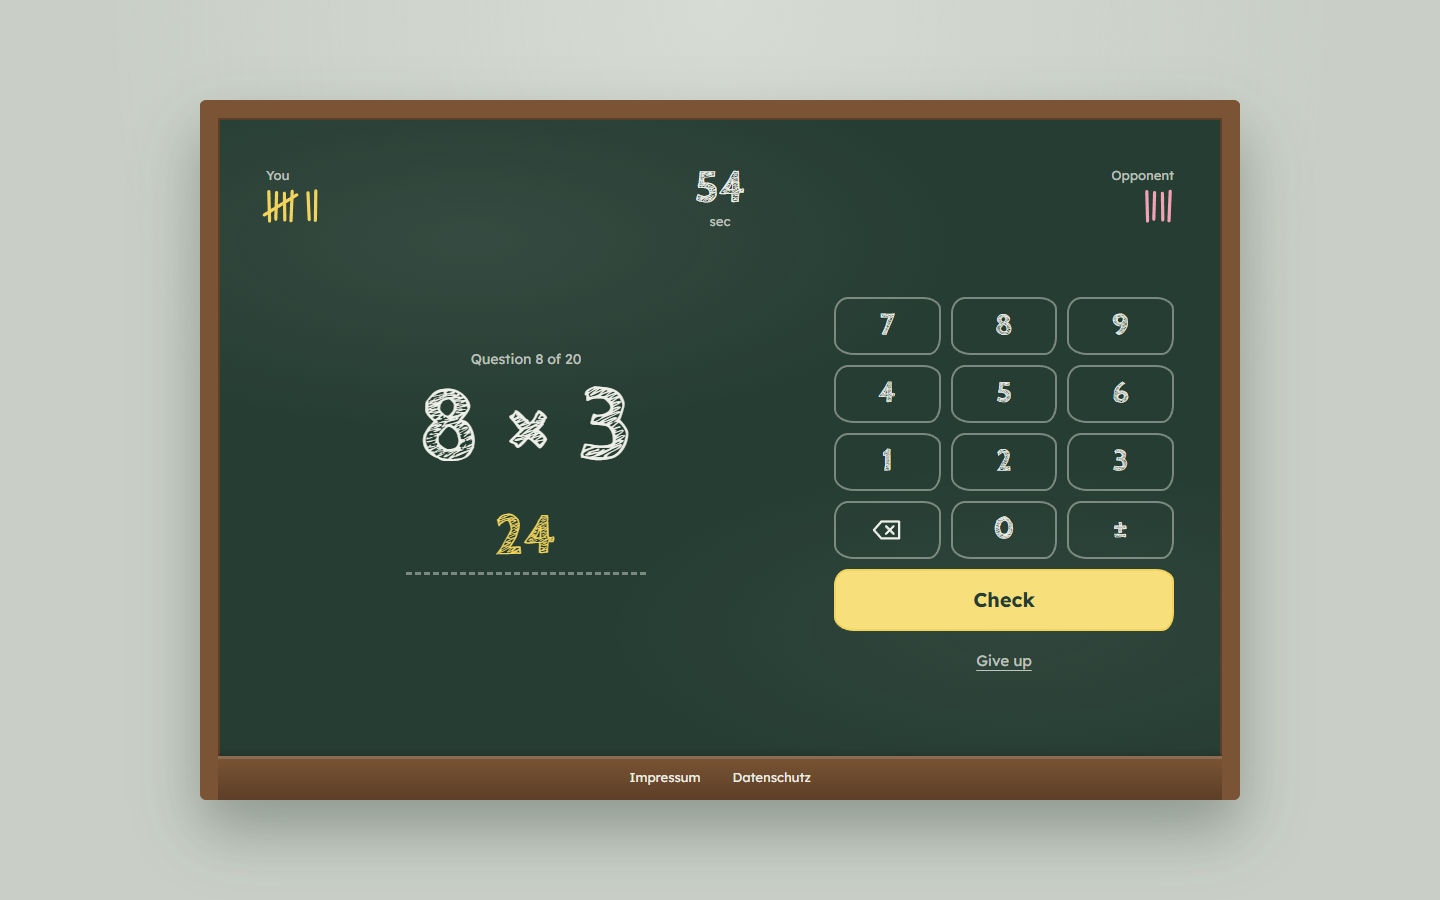
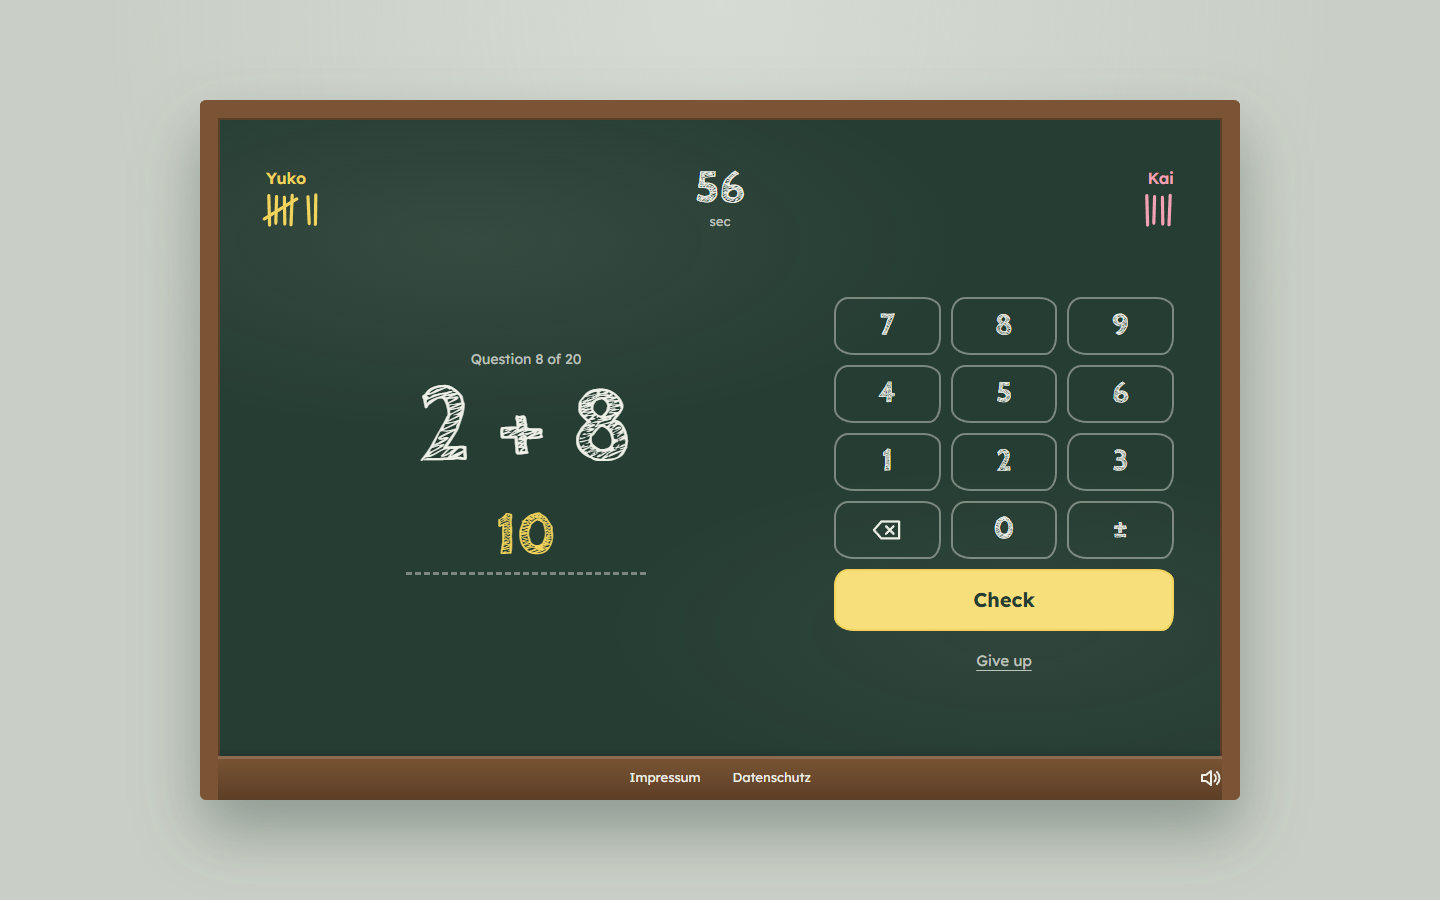
Refresh README screenshots for the finished game
Show the three challenge types, nicknames, streak call-outs and the
result stats instead of the pre-Phase-5 screens.

diff --git a/README.md b/README.md
@@ -4,11 +4,11 @@
 
 Real-time multiplayer math duel: two players race to solve 20 problems in 60 seconds, on a chalkboard.
 
-![Gameplay on a phone: the score is drawn as tally marks, a wrong answer gets crossed out, and giving up needs a second tap](docs/screenshots/gameplay.png)
+![Three challenge types on a phone: Classic with a "5 in a row" streak and chalk dust, True or false, and Which is bigger with powers](docs/screenshots/gameplay.png)
 
 | Desktop | Every ending |
 |---|---|
-| ![Desktop: framed chalkboard with the question on the left and the number pad on the right](docs/screenshots/desktop.png) | ![Win, lose and draw screens with final tally marks](docs/screenshots/results.png) |
+| ![Desktop: framed chalkboard with the question on the left and the number pad on the right](docs/screenshots/desktop.png) | ![Win, lose and draw screens with nicknames, tally marks and answer stats](docs/screenshots/results.png) |
 
 ## Features
 
